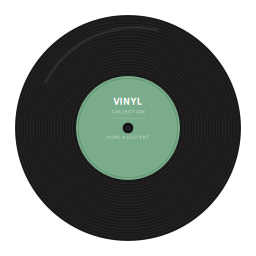
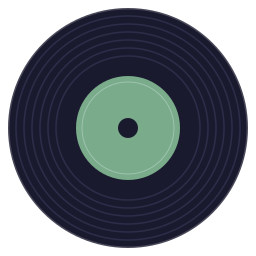
improve entity area lookup: check device registry as fallback, add hass.devices support

diff --git a/custom_components/vinyl_collection/vinyl-collection-card.js b/custom_components/vinyl_collection/vinyl-collection-card.js
@@ -1142,10 +1142,21 @@ class VinylCollectionCard extends HTMLElement {
 
   _getEntityArea(entityId) {
     try {
-      const areaId = this._hass.entities[entityId]?.area_id;
-      if (areaId && this._hass.areas && this._hass.areas[areaId]) {
-        return this._hass.areas[areaId].name;
+      const entities = this._hass.entities;
+      const areas = this._hass.areas;
+      if (!entities || !areas) return null;
+
+      const entity = entities[entityId];
+      if (!entity) return null;
+
+      // Check entity-level area first, then device-level area
+      let areaId = entity.area_id;
+      if (!areaId && entity.device_id && this._hass.devices) {
+        const device = this._hass.devices[entity.device_id];
+        if (device) areaId = device.area_id;
       }
+
+      if (areaId && areas[areaId]) return areas[areaId].name;
     } catch (_) {}
     return null;
   }
